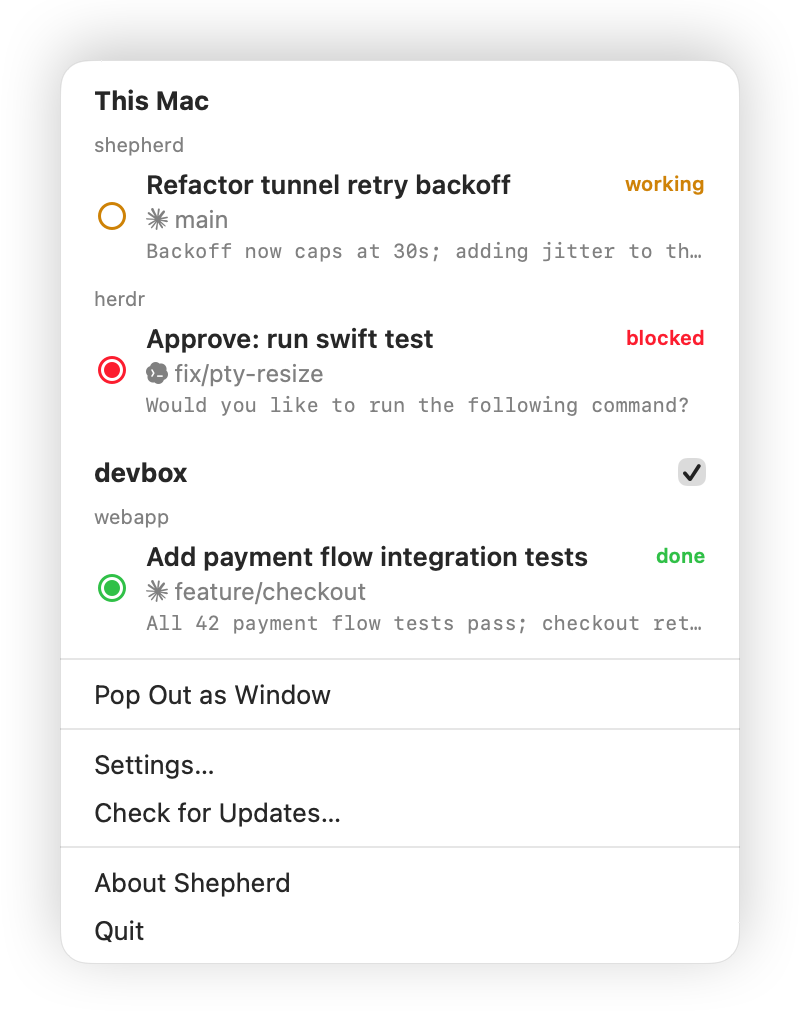
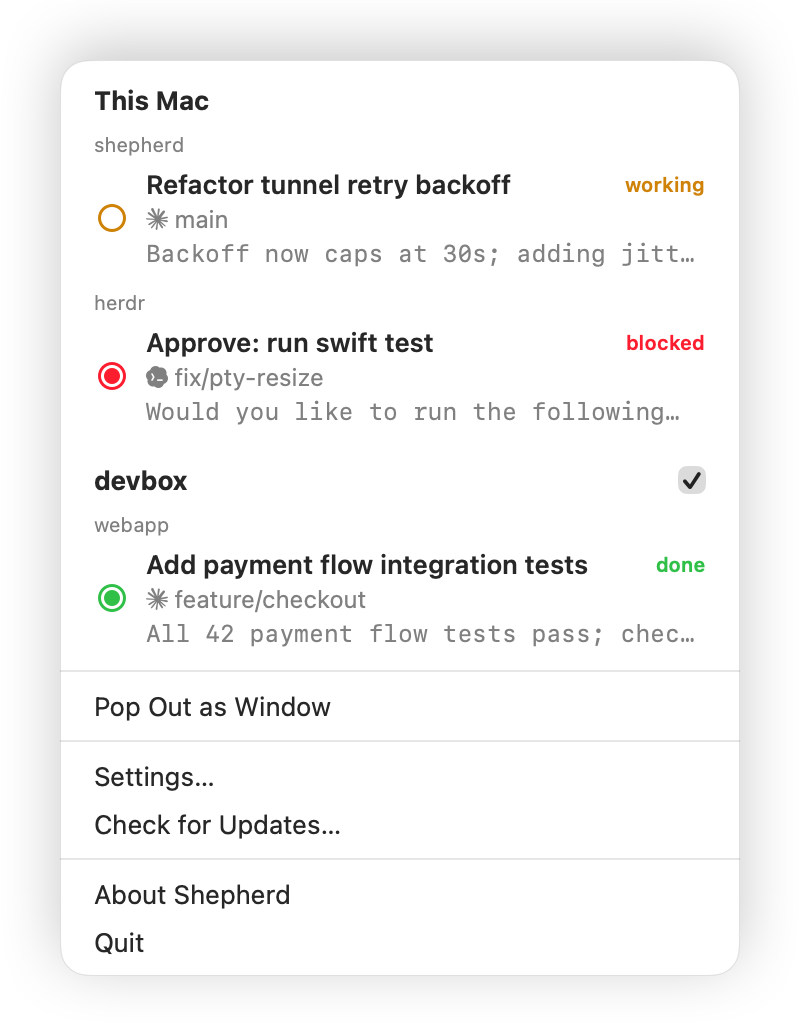
display: align row line sides at their x-height centers
The status caption sat visibly above the heading next to it. The
line HStack aligned its sides with .top, which pins the smaller
caption's line box to the top edge of the taller heading line.

Neither standard alignment centers mixed font sizes optically:
line-box .center leaves the caption's baseline 1.5pt above the
heading's, and .firstTextBaseline drops its lowercase body 0.75pt
below the heading's, because the fonts distribute leading and
descent differently.

A custom xHeightCenter alignment sets each side's guide to the
center of its lowercase body (baseline minus half the x-height,
from the preset's AppKit font). Anchoring on the first text
baseline keeps the right side beside the first line when the left
side wraps.

diff --git a/Sources/Shepherd/AgentRow.swift b/Sources/Shepherd/AgentRow.swift
@@ -241,12 +241,18 @@ struct AgentRow: View {
         left: [TemplateRun],
         right: [TemplateRun]
     ) -> some View {
-        // .top keeps the right side beside the first line when the left side
-        // wraps across line.maxLines rows.
-        HStack(alignment: .top, spacing: 6) {
+        // Aligning both sides at the center of their lowercase body keeps the
+        // smaller status caption optically level with the taller text beside
+        // it. Line-box .center sits the caption visibly high and
+        // .firstTextBaseline visibly low, because the two fonts distribute
+        // leading and descent differently. Anchoring on the first text
+        // baseline also keeps the right side beside the first line when the
+        // left side wraps across line.maxLines rows.
+        HStack(alignment: .xHeightCenter, spacing: 6) {
             runsView(left, style: line.leftStyle)
                 .lineLimit(line.maxLines)
                 .truncationMode(.tail)
+                .alignmentGuide(.xHeightCenter) { xHeightCenter($0, line.leftStyle) }
             // A line with an empty right template spends none of its width on
             // the gap, so the left side truncates at the same column it would
             // reach on a line that has no right template at all.
@@ -257,8 +263,18 @@ struct AgentRow: View {
                 runsView(right, style: line.rightStyle)
                     .lineLimit(1)
                     .layoutPriority(1)
+                    .alignmentGuide(.xHeightCenter) { xHeightCenter($0, line.rightStyle) }
             }
         }
+    }
+
+    /// Guide value for `.xHeightCenter`: the vertical center of the first
+    /// line's lowercase body, half an x-height above the baseline. The
+    /// x-height comes from the preset's AppKit font, the same source the
+    /// mark sizing uses.
+    private func xHeightCenter(_ d: ViewDimensions, _ style: RowTextStyle) -> CGFloat {
+        d[.firstTextBaseline]
+            - NSFont.preferredFont(forTextStyle: style.appKitTextStyle).xHeight / 2
     }
 
     /// Menu rows keep this line's metrics mounted for every excerpt state,
@@ -449,6 +465,20 @@ private struct RowTextStyleModifier: ViewModifier {
                 )
         }
     }
+}
+
+/// Alignment for the two sides of a row line. Each side sets its guide to the
+/// x-height center of its own font (see AgentRow.xHeightCenter); the default
+/// only covers views that never set the guide, such as the Spacer between the
+/// sides, which no other child aligns against.
+private extension VerticalAlignment {
+    struct XHeightCenterID: AlignmentID {
+        static func defaultValue(in context: ViewDimensions) -> CGFloat {
+            context[VerticalAlignment.center]
+        }
+    }
+
+    static let xHeightCenter = VerticalAlignment(XHeightCenterID.self)
 }
 
 private extension RowTextStyle {

diff --git a/CHANGELOG.md b/CHANGELOG.md
@@ -1,5 +1,11 @@
 # Changelog
 
+## Unreleased
+
+### Fixed
+
+- Status labels sit centered beside the heading instead of above it.
+
 ## v0.15.0 - 2026-08-04
 
 ### Added
